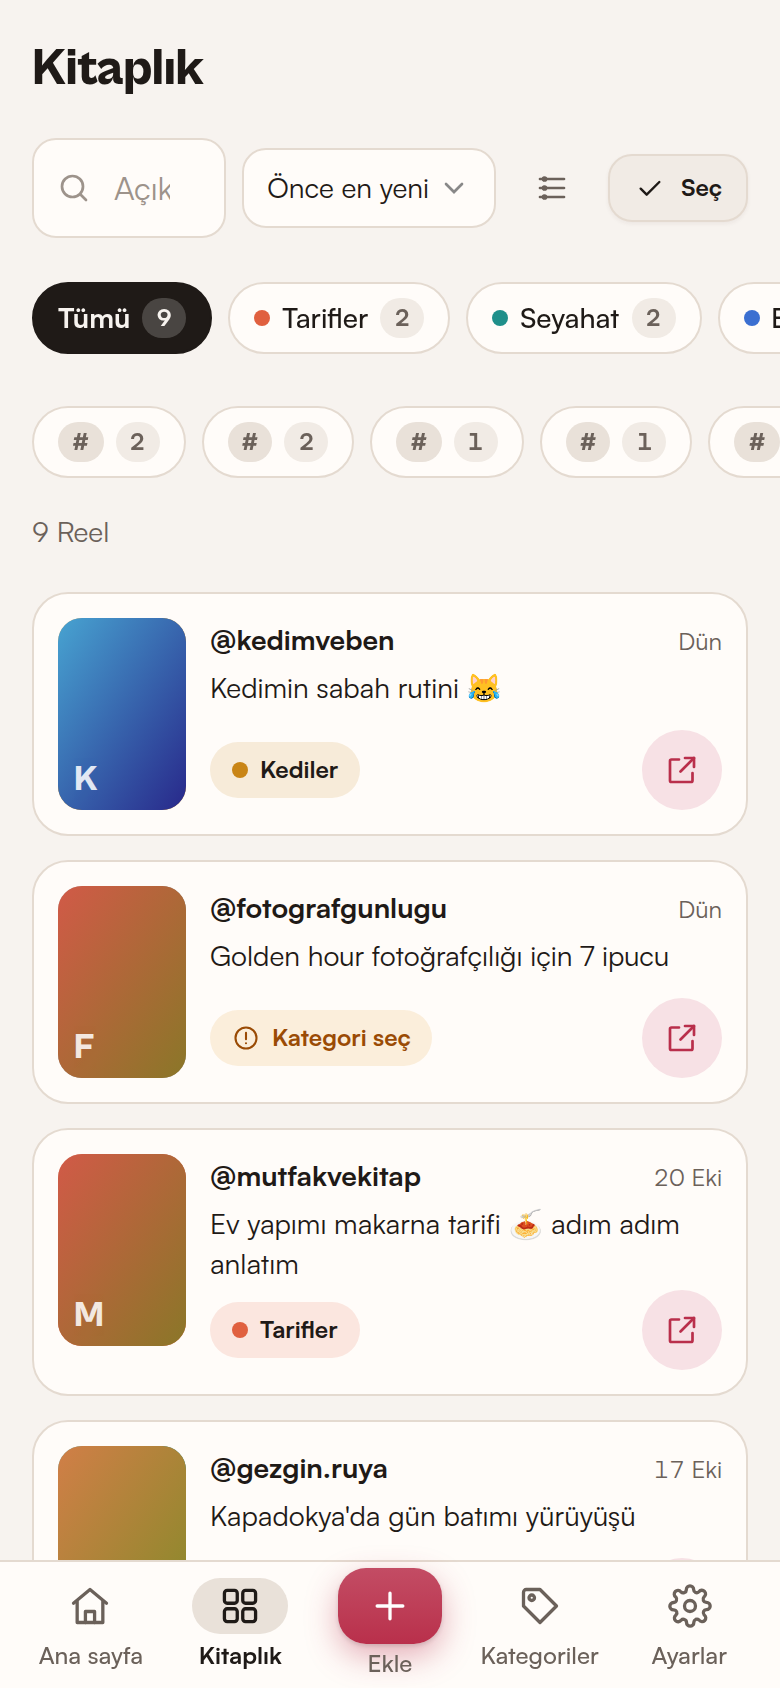
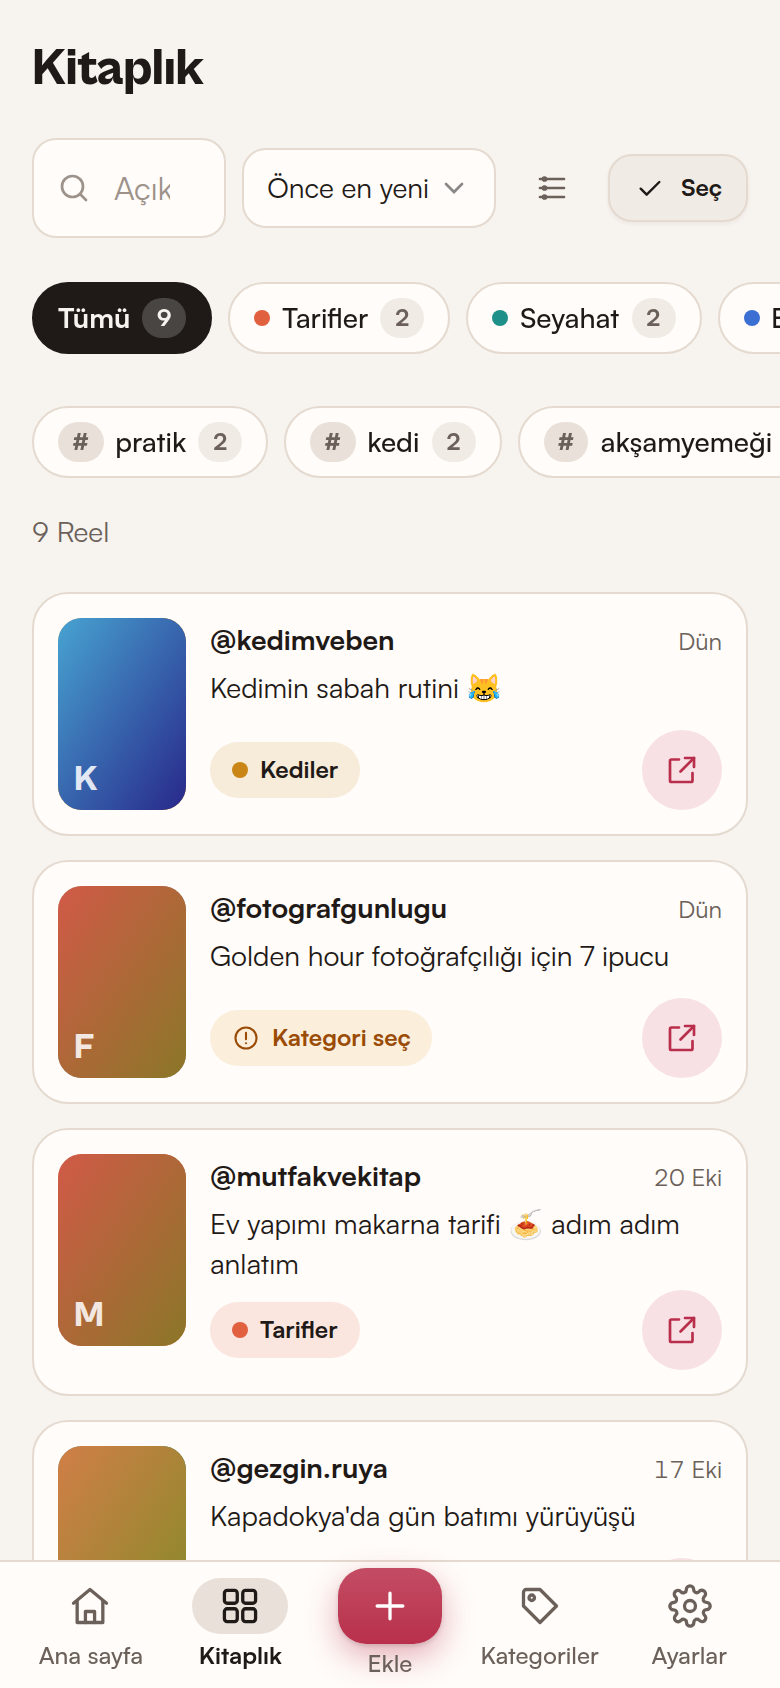
fix: advisor review findings — AI never auto-applies, tag chip names, drag polish
- AI classification no longer auto-applies even high-confidence categories
  (item 5 rule): the pick sheet always asks the user. Unit test updated.
- library tag filter chips showed '# <count>' without the tag name
  (d.label was undefined) — now shows the tag name.
- sheet drag: pointercancel now springs back without closing; dismissed
  sheets slide out from the dragged position instead of snapping to base;
  pointer capture on the grip/header so fast drags are not lost.
- e2e: new 'sheet drag-to-dismiss' test (short drag springs back, long
  drag dismisses) — skipped on tablet-width where drag is disabled.
- AndroidManifest: VIBRATE permission for button haptics.
- README: AI paragraph and privacy section now match the actual behavior;
  screenshots marked as demo data.

diff --git a/www/src/ui/dom.js b/www/src/ui/dom.js
@@ -128,7 +128,8 @@ export function sheet({ title, content, onClose, testid = 'sheet', size = 'md' }
     closed = true;
     const i = openSheets.indexOf(api);
     if (i >= 0) openSheets.splice(i, 1);
-    dlg.classList.add('closing');
+    // dragged-out sheets already sit partway down; only animate the rest
+    if (!dlg.style.transform) dlg.classList.add('closing');
     setTimeout(() => {
       try {
         dlg.close();
@@ -170,6 +171,11 @@ export function sheet({ title, content, onClose, testid = 'sheet', size = 'md' }
     lastT = performance.now();
     vel = 0;
     dlg.classList.add('dragging');
+    try {
+      e.currentTarget.setPointerCapture && e.currentTarget.setPointerCapture(e.pointerId);
+    } catch {
+      /* capture is best-effort */
+    }
   };
   const onMove = (e) => {
     if (!dragging) return;
@@ -187,18 +193,29 @@ export function sheet({ title, content, onClose, testid = 'sheet', size = 'md' }
     const dy = lastY - dragY0;
     const h = dlg.offsetHeight || 1;
     if (dy > h * 0.3 || (vel > 0.5 && dy > 40)) {
-      dlg.style.transform = '';
-      close();
+      // dismissed: slide out from the dragged position (no snap back to base)
+      dlg.style.transition = 'transform 0.18s cubic-bezier(0.32, 0.72, 0, 1)';
+      dlg.style.transform = `translateY(${h + 60}px)`;
+      setTimeout(() => {
+        dlg.style.transition = '';
+        close();
+      }, 190);
     } else {
       dlg.style.transform = ''; // springs back via the base transition
     }
+  };
+  const onCancel = () => {
+    if (!dragging) return;
+    dragging = false;
+    dlg.classList.remove('dragging');
+    dlg.style.transform = ''; // system cancelled the drag: just spring back, never close
   };
   for (const el of [grip, head]) {
     el.addEventListener('pointerdown', onDown);
   }
   dlg.addEventListener('pointermove', onMove);
   dlg.addEventListener('pointerup', onUp);
-  dlg.addEventListener('pointercancel', onUp);
+  dlg.addEventListener('pointercancel', onCancel);
   return api;
 }
 

diff --git a/www/src/categorize/engine.js b/www/src/categorize/engine.js
@@ -75,9 +75,8 @@ export async function classify(reel, categories, { creatorStats, ai, post } = {}
       const others = local.candidates.filter((c) => !r.categoryIds.includes(c.id));
       const candidates = [...aiCand, ...others].slice(0, 4);
       const extra = { aiTags: r.tags, aiNewCategory: r.newCategory, aiConfidence: r.confidence };
-      if (r.categoryIds.length && r.confidence >= 0.6) {
-        return { ...local, status: 'confident', categoryId: r.categoryIds[0], method: 'ai', candidates, ...extra };
-      }
+      // AI results are never auto-applied: even a high-confidence category is
+      // only a suggestion — the pick sheet always asks the user to confirm.
       return { ...local, candidates, ...extra };
     }
     return local;

diff --git a/www/src/ui/views/library.js b/www/src/ui/views/library.js
@@ -104,7 +104,7 @@ export function renderLibrary(query) {
             },
           },
           h('span', { class: 'chip-n', style: 'background:var(--surface-3)' }, '#'),
-          d.label,
+          d.name,
           h('span', { class: 'chip-n' }, String(d.n)),
         ),
       ),
